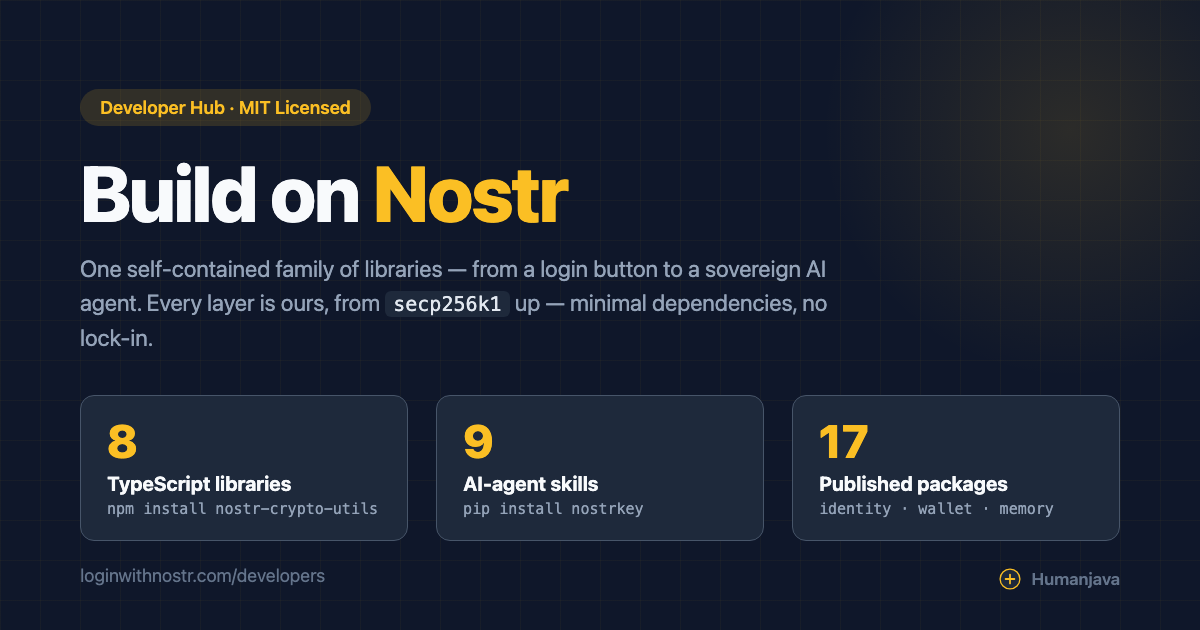
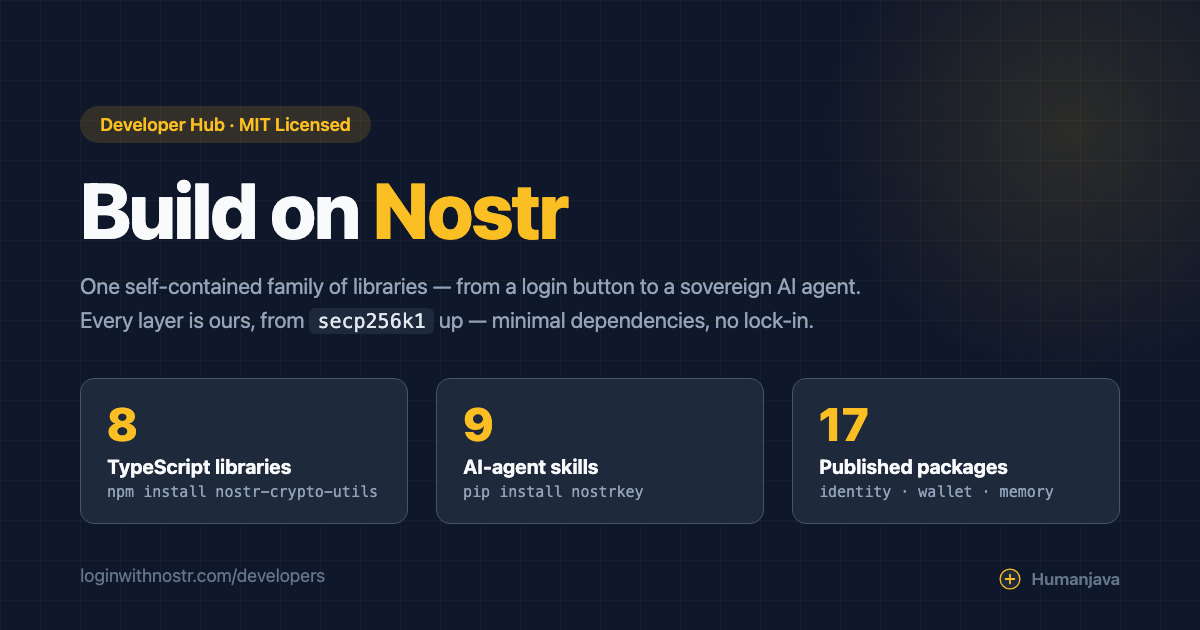
polish(og-card): subtitle as two full-width lines, one sentence each

diff --git a/docs/developers/og-image.html b/docs/developers/og-image.html
@@ -41,8 +41,8 @@
         }
         h1 span { color: #fbbf24; }
         .subtitle {
-            font-size: 23px; color: #94a3b8; line-height: 1.5; max-width: 760px;
-            position: relative; z-index: 1; margin-bottom: 40px;
+            font-size: 22px; color: #94a3b8; line-height: 1.55; max-width: none;
+            white-space: nowrap; position: relative; z-index: 1; margin-bottom: 40px;
         }
         .subtitle code {
             font-family: 'SF Mono', 'Fira Code', Consolas, monospace; font-size: 20px;
@@ -72,7 +72,7 @@
     <div class="card">
         <div class="badge">Developer Hub &middot; MIT Licensed</div>
         <h1>Build on <span>Nostr</span></h1>
-        <p class="subtitle">One self-contained family of libraries &mdash; from a login button to a sovereign AI agent. Every layer is ours, from <code>secp256k1</code> up &mdash; minimal dependencies, no lock-in.</p>
+        <p class="subtitle">One self-contained family of libraries &mdash; from a login button to a sovereign AI agent.<br>Every layer is ours, from <code>secp256k1</code> up &mdash; minimal dependencies, no lock-in.</p>
         <div class="stat-cards">
             <div class="stat-card">
                 <div class="big">8</div>